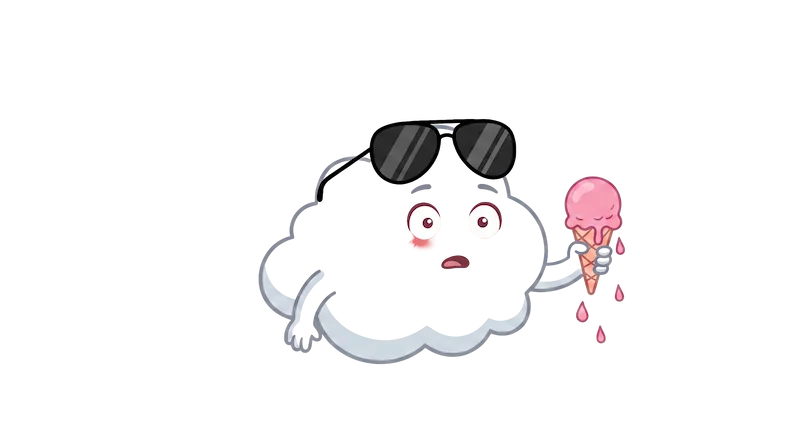
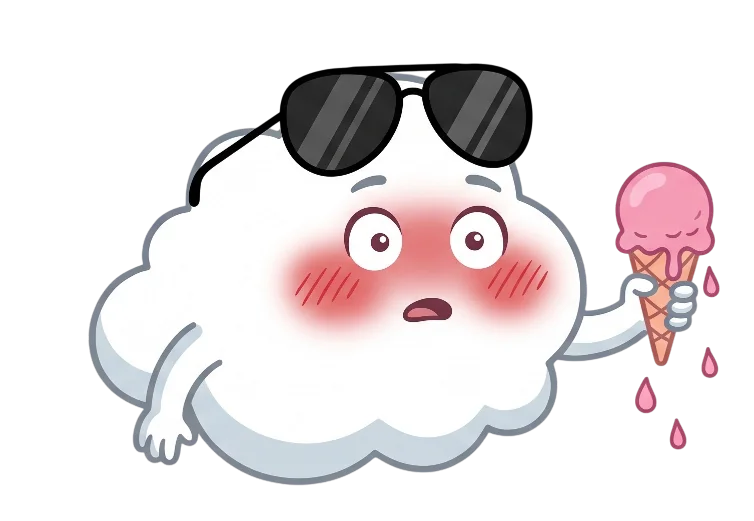
Version 5.0 - nubio v.14 img4

Changed region(s): [[0.0915, 0.1163, 0.9761, 0.9306], [0.8236, 0.7271, 0.8846, 0.8143], [0.8846, 0.8143, 0.9151, 0.8725]]

diff --git a/src/app/pages/welcome/welcome.page.scss b/src/app/pages/welcome/welcome.page.scss
@@ -36,12 +36,13 @@ ion-content {
 
   .nubio-avatar {
     // 🎯 Aumentamos el ancho en CSS para compensar el lienzo
-    width: 320px;         // Subimos de 220px a 320px
-    max-width: 75vw;      // Que ocupe hasta el 75% del ancho de la pantalla del móvil
+    width:450px;         // Subimos de 220px a 320px
+    max-width: 80vw;      // Que ocupe hasta el 75% del ancho de la pantalla del móvil
     height: auto;
     object-fit: contain;
 
-    filter: drop-shadow(0px 12px 20px rgba(0, 0, 0, 0.35));
+    filter: drop-shadow(0px 0px 2px rgba(255, 255, 255, 0.8))  // Borde exterior blanco de contraste
+          drop-shadow(0px 12px 20px rgba(0, 0, 0, 0.45));   // Sombra de flotación
     animation: nubioFloating 4s ease-in-out infinite;
   }
 }
